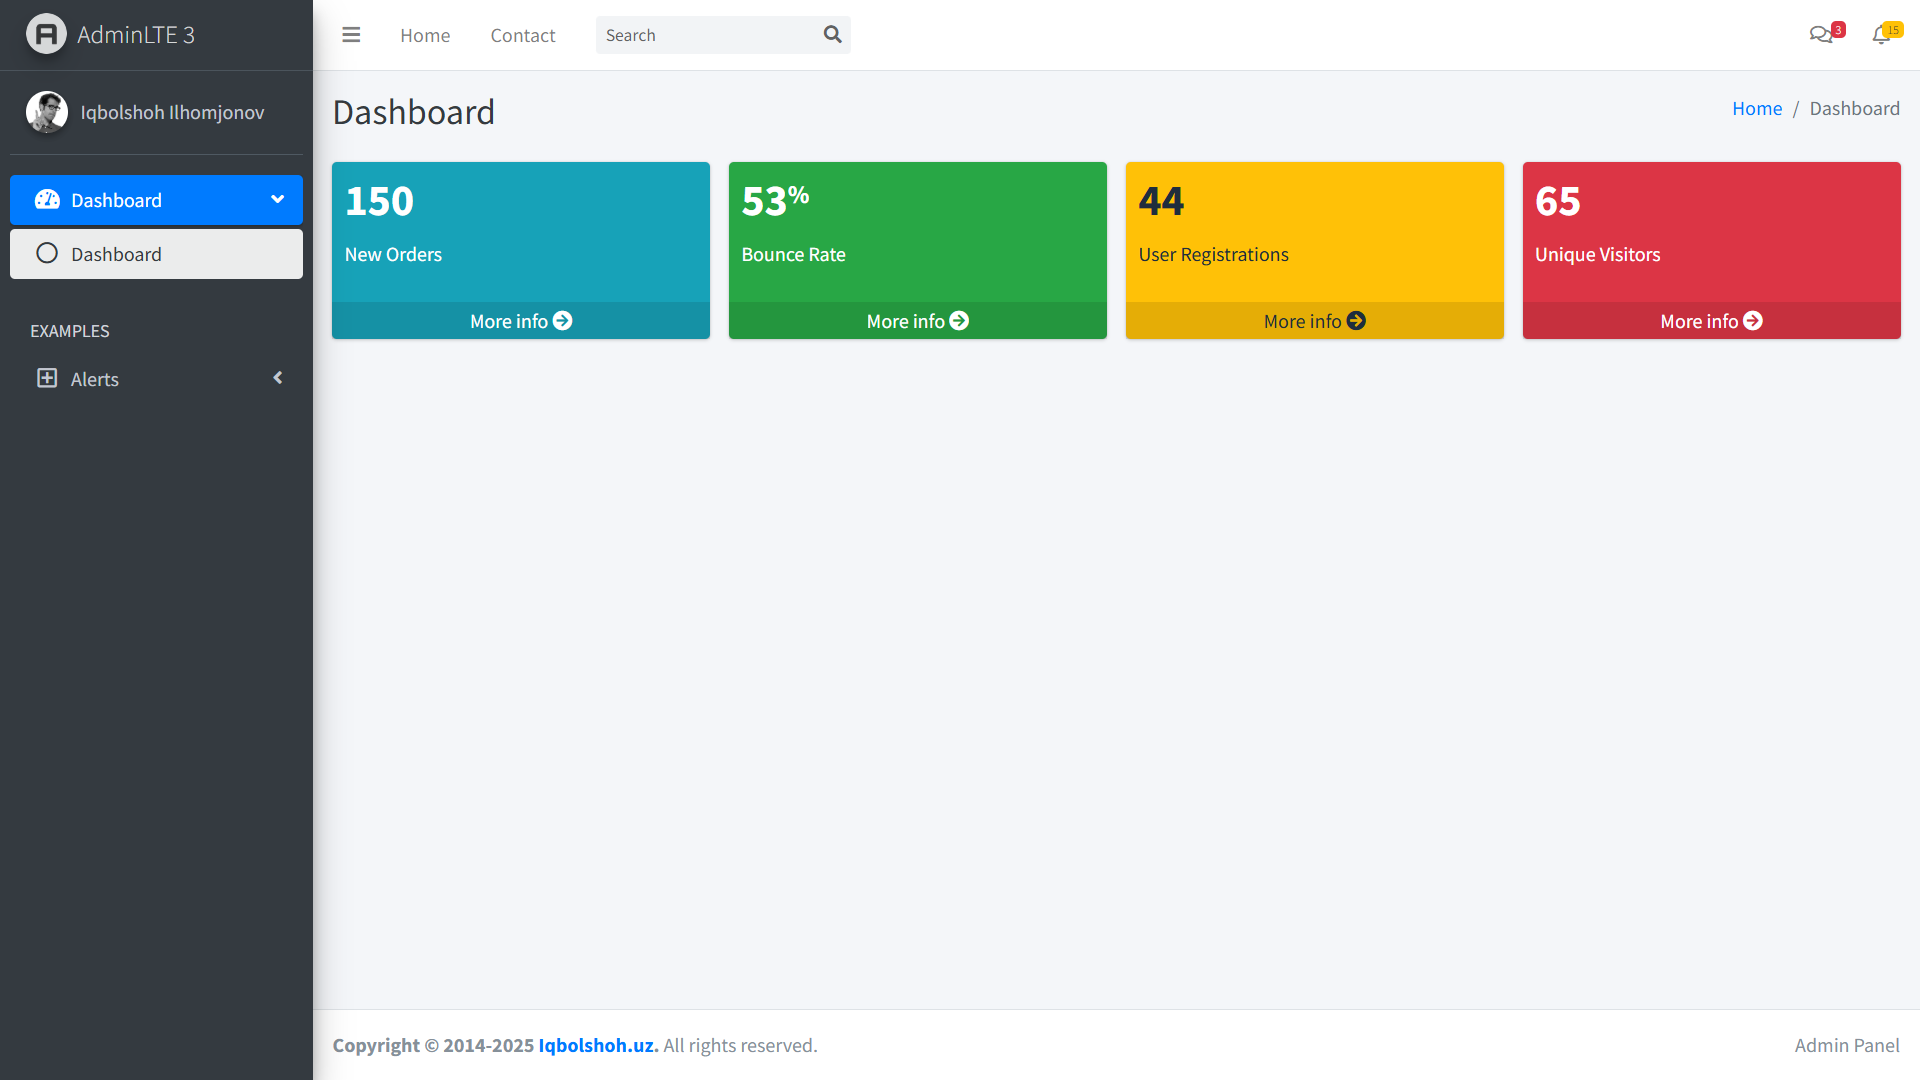
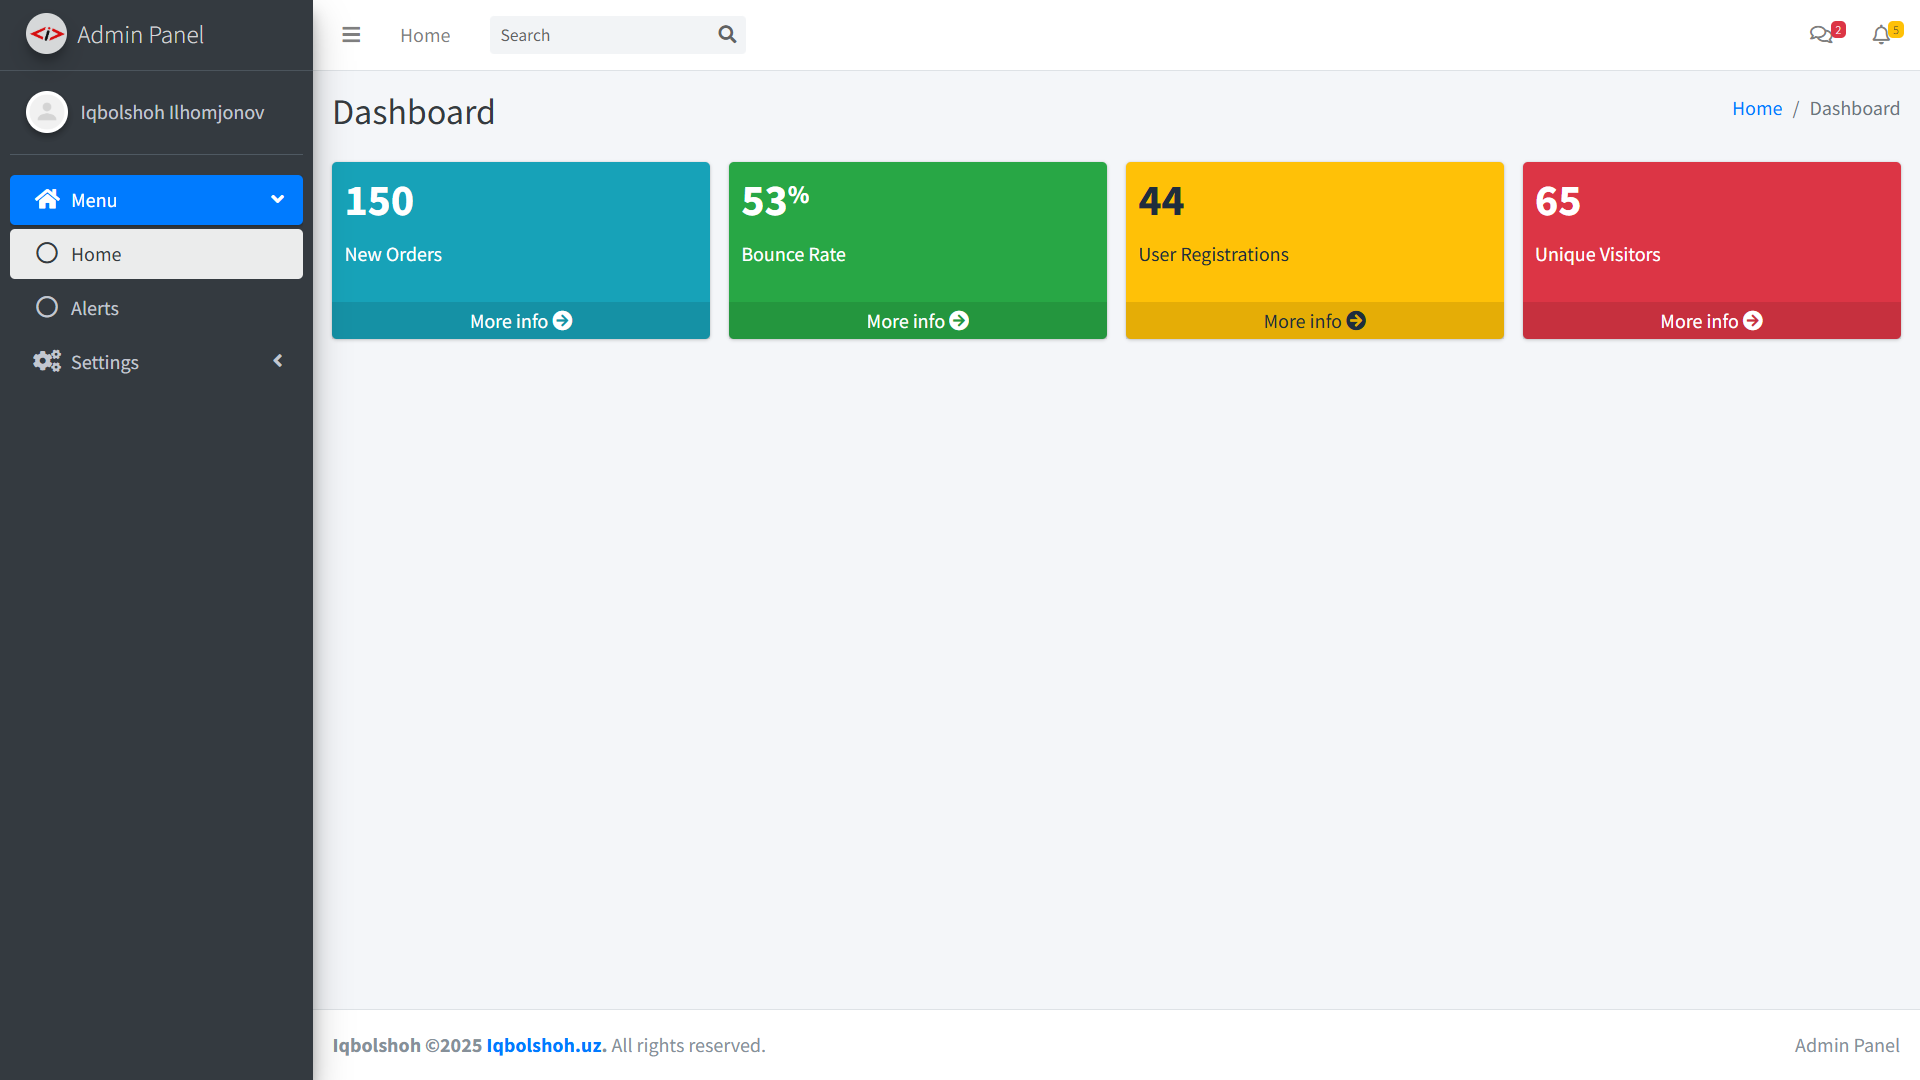
commit

diff --git a/includes/header.php b/includes/header.php
@@ -58,14 +58,14 @@ function renderHeader($pageTitle, $breadcrumbItems)
         <li class="nav-item dropdown">
             <a class="nav-link" href="#messages">
                 <i class="far fa-comments"></i>
-                <span class="badge badge-danger navbar-badge">3</span>
+                <span class="badge badge-danger navbar-badge">2</span>
             </a>
         </li>
         <!-- Notifications dropdown -->
         <li class="nav-item dropdown">
             <a class="nav-link" href="#notifications">
                 <i class="far fa-bell"></i>
-                <span class="badge badge-warning navbar-badge">15</span>
+                <span class="badge badge-warning navbar-badge">5</span>
             </a>
         </li>
     </ul>
